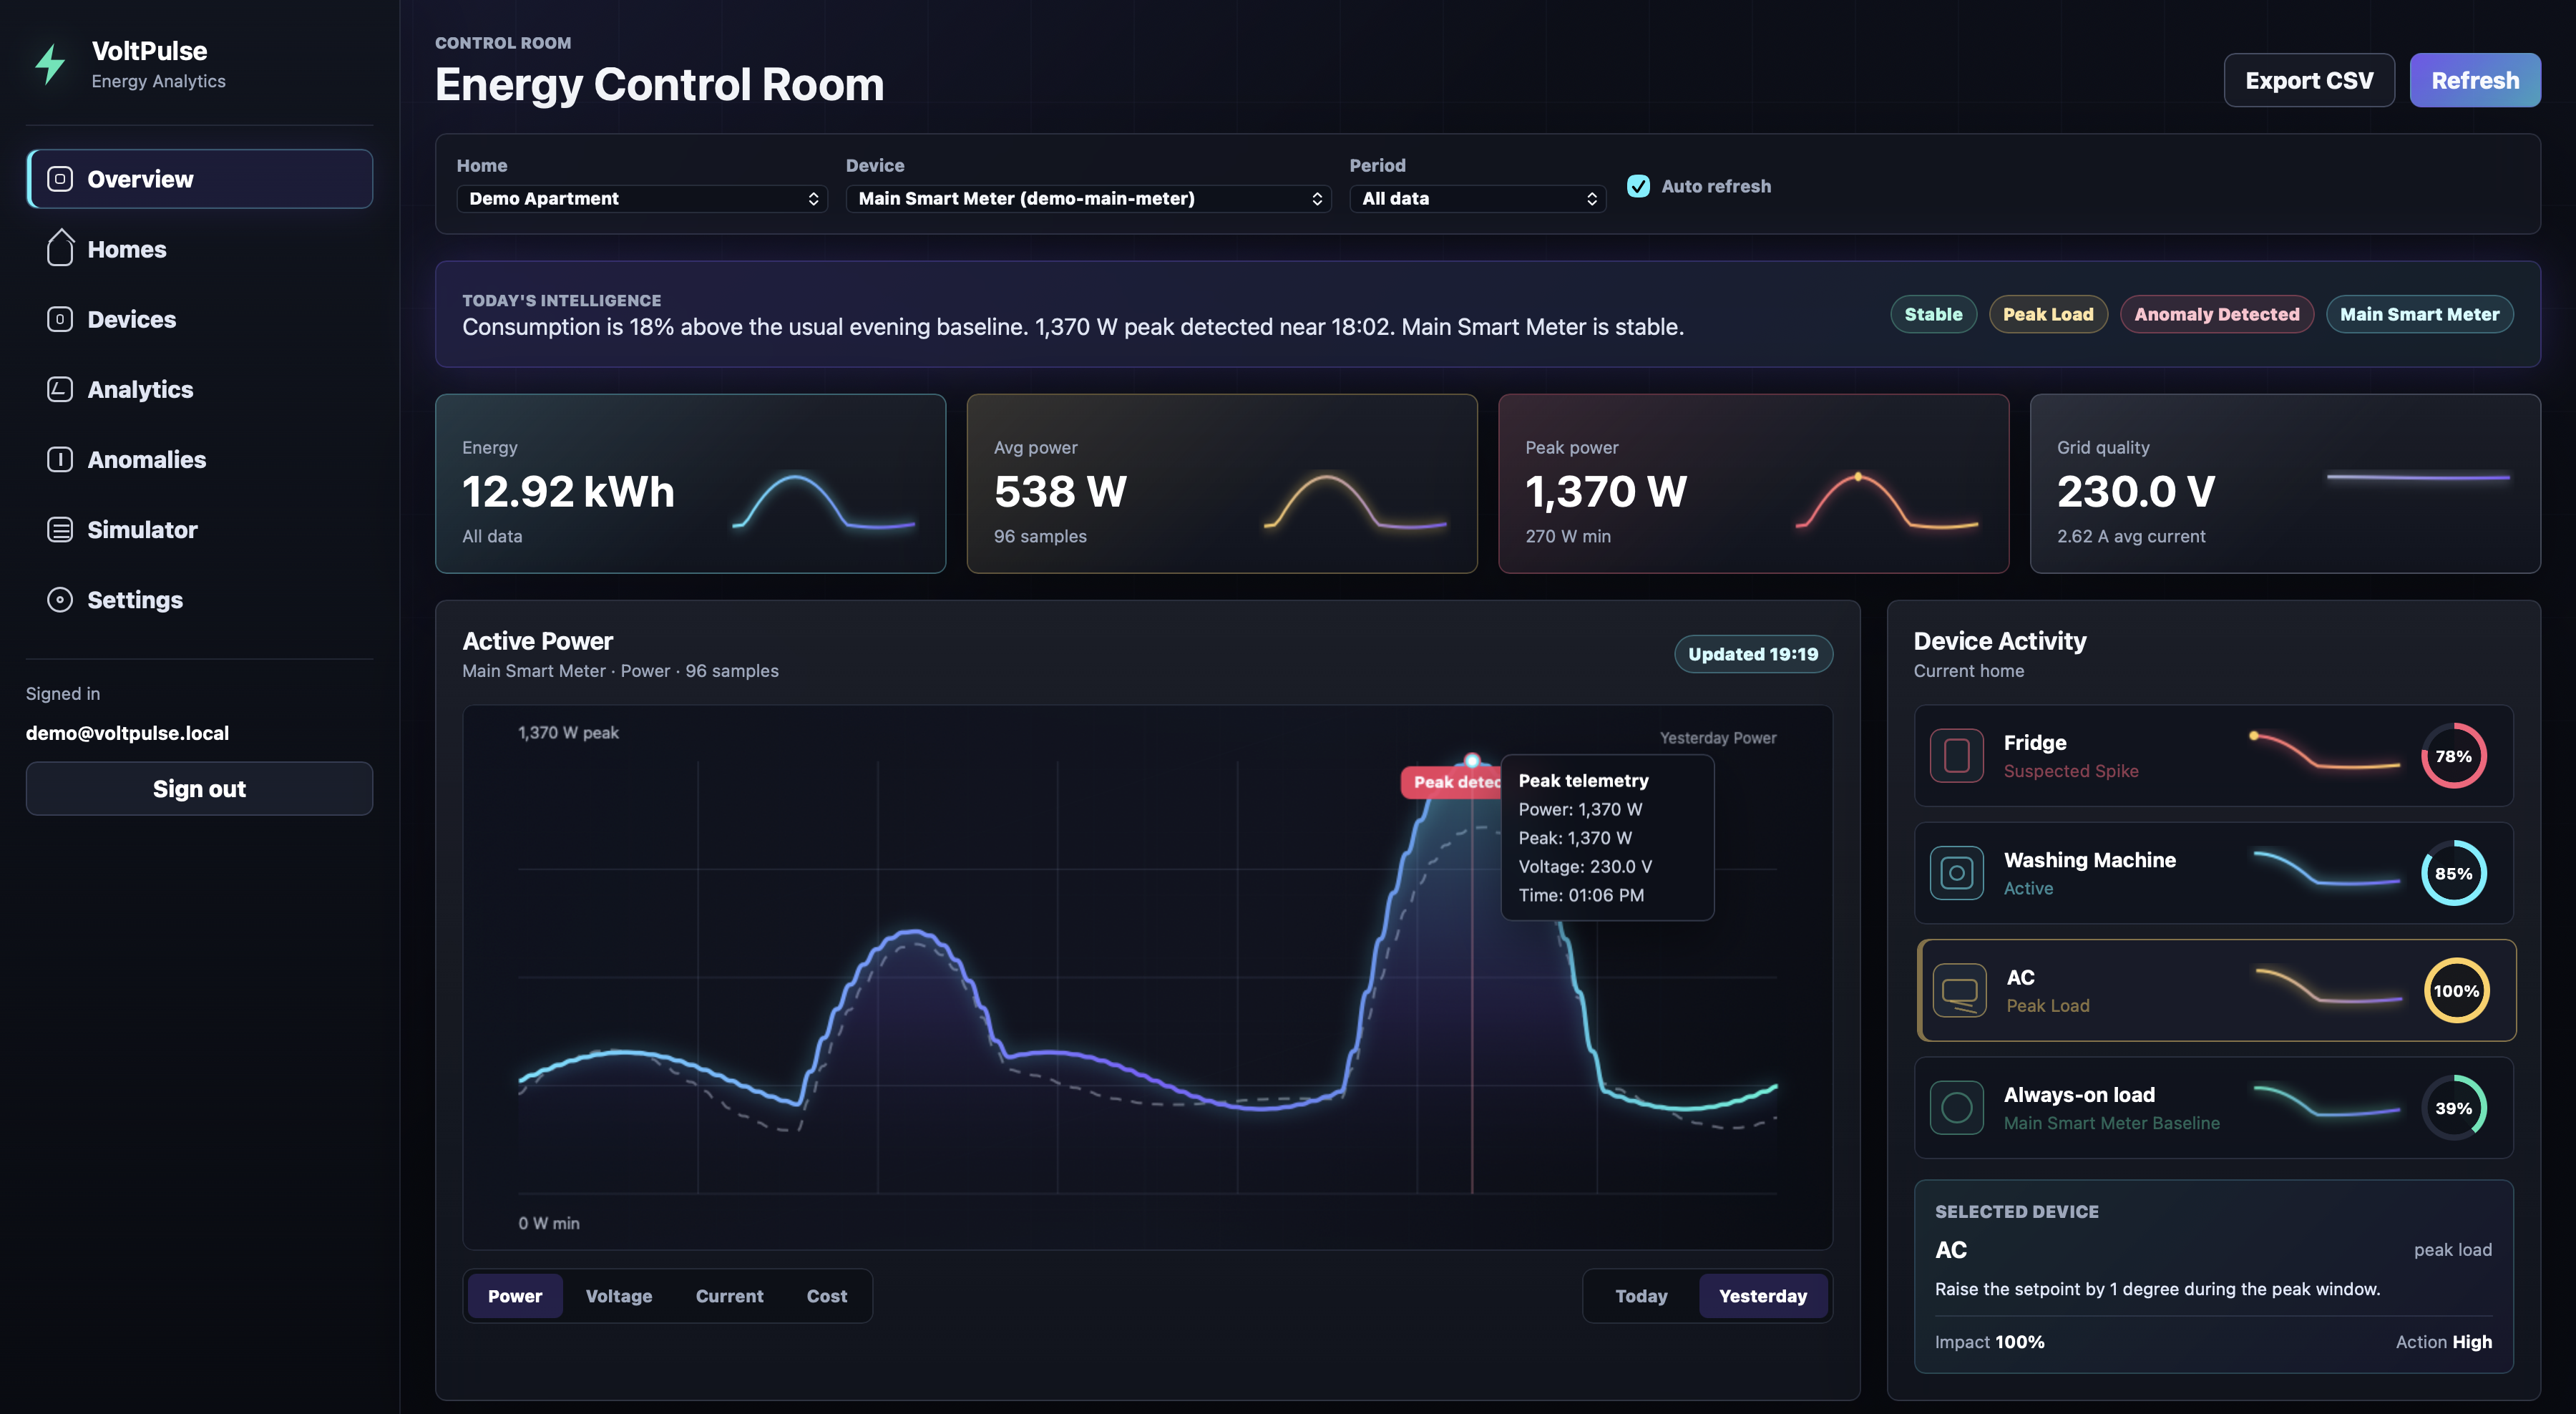
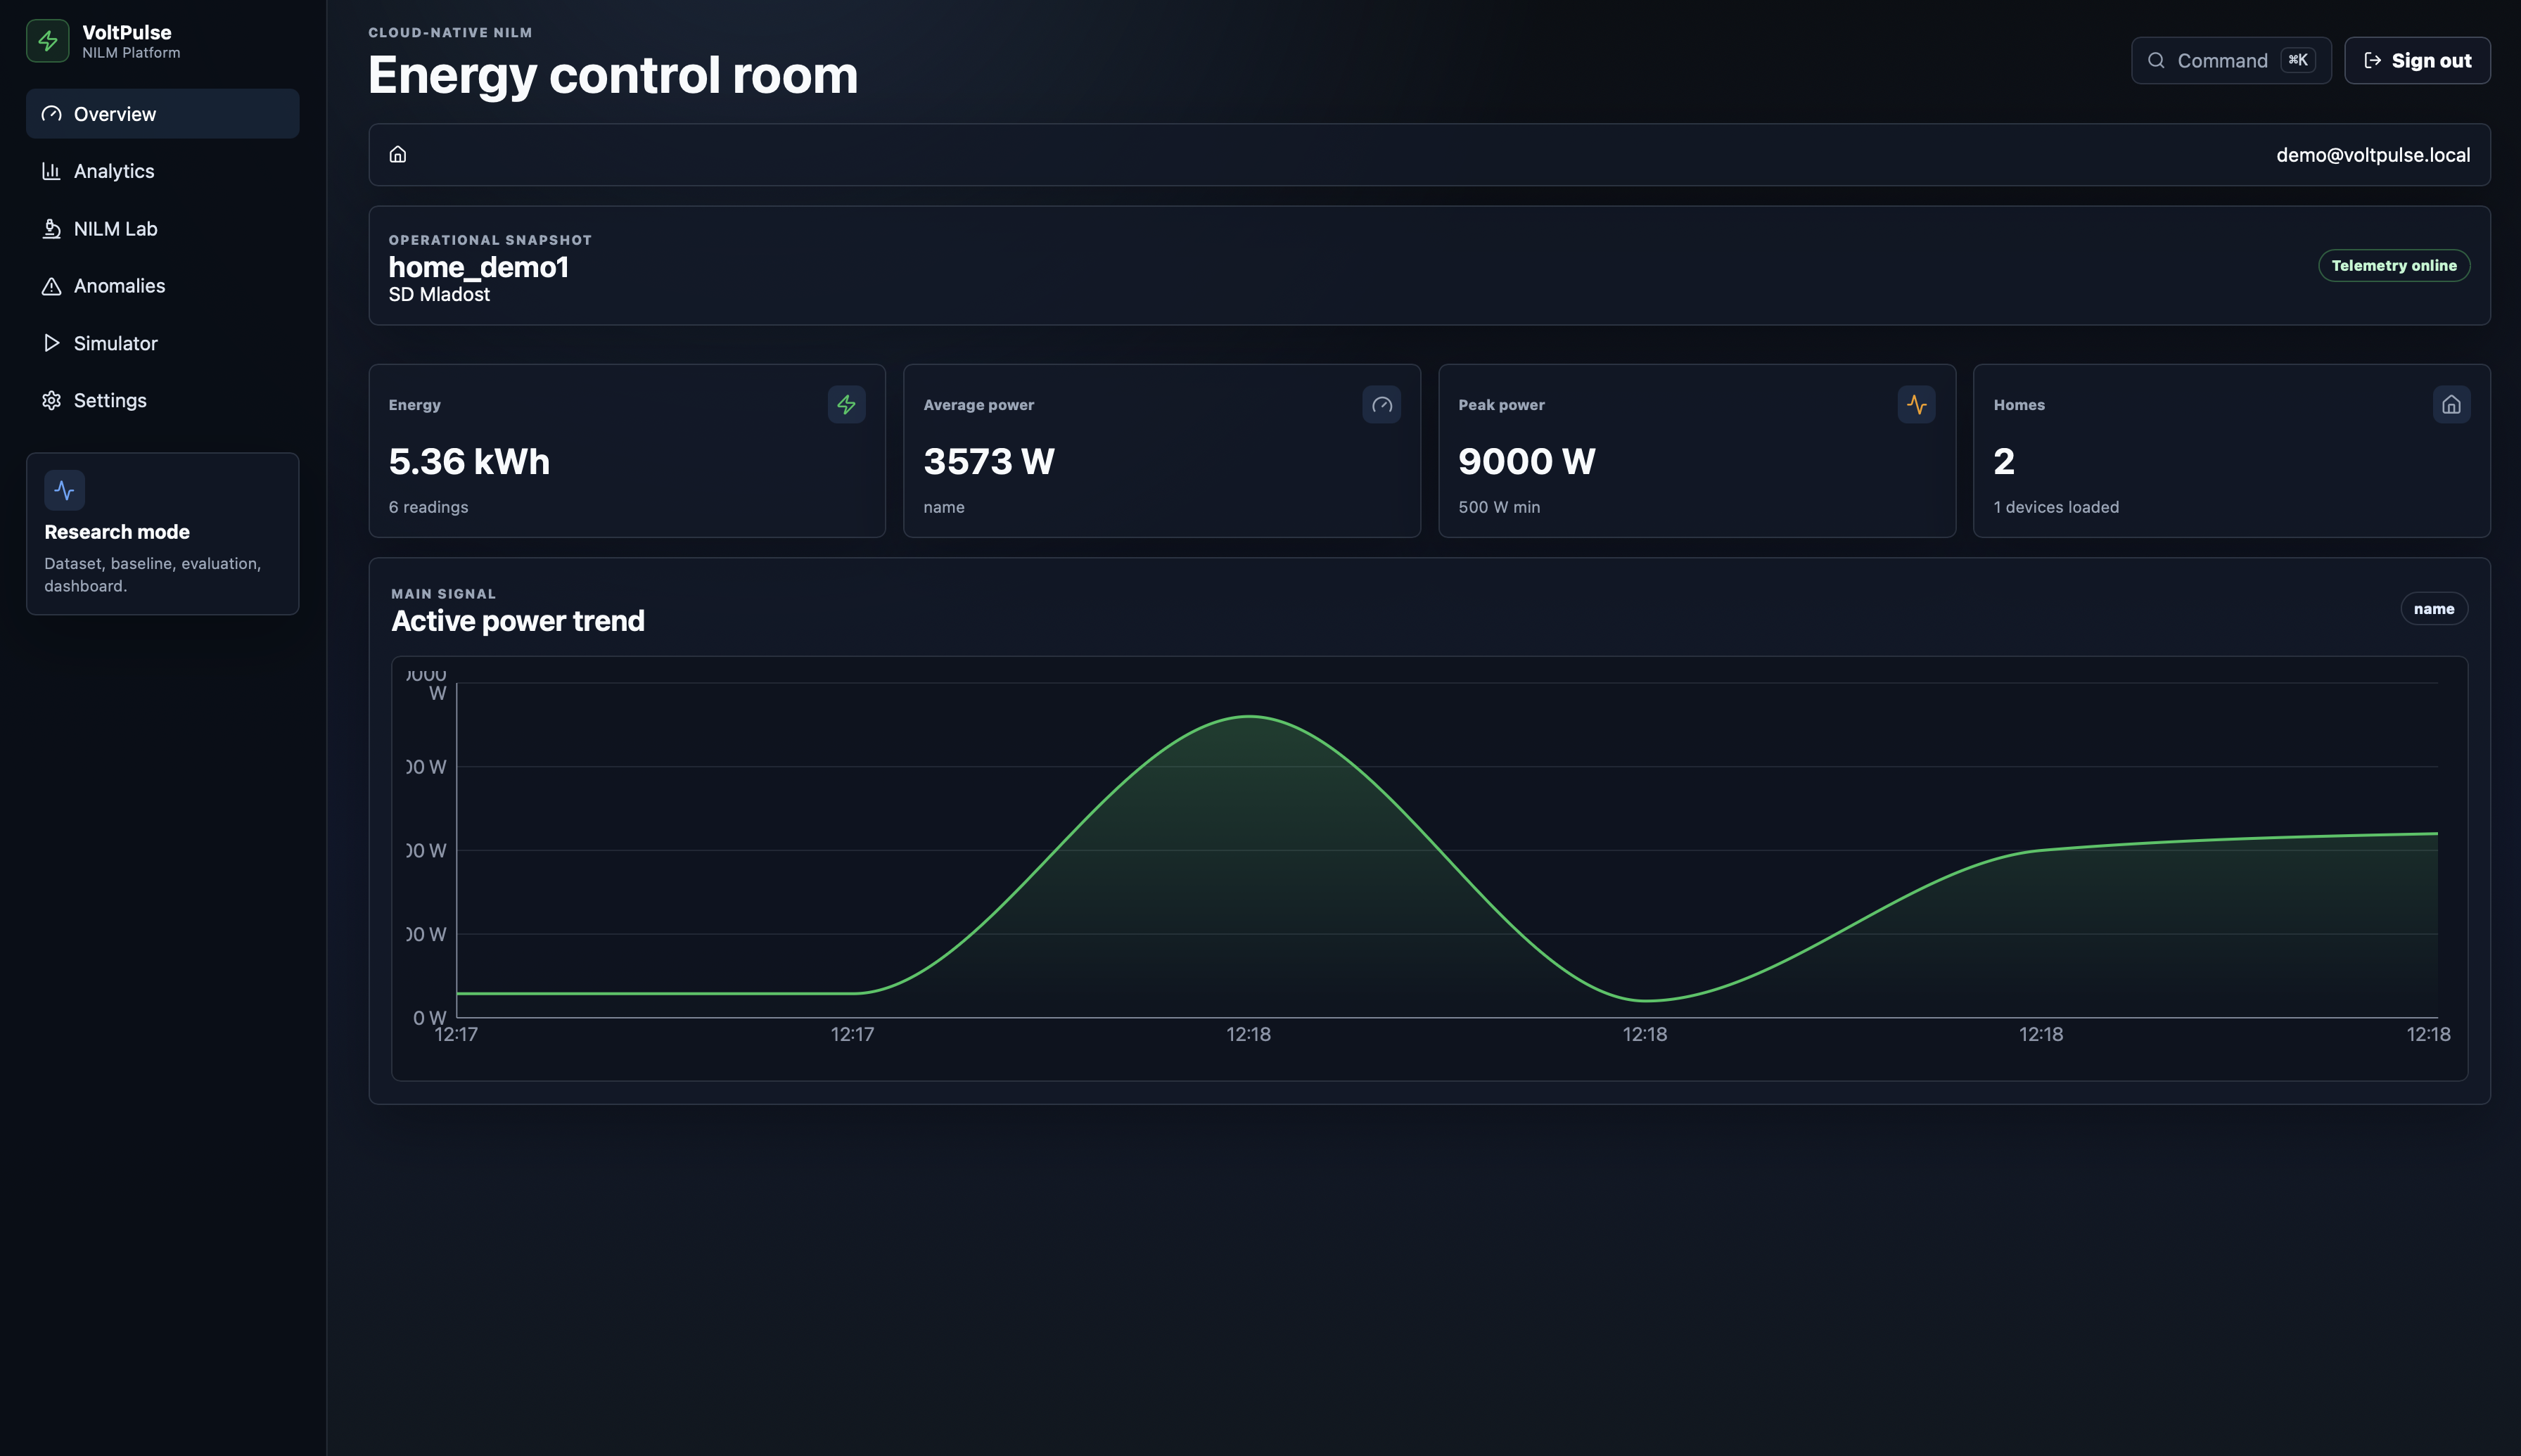
feat(nilm): add local dataset availability tracking

diff --git a/backend/app/ml/datasets/lab_demo.py b/backend/app/ml/datasets/lab_demo.py
@@ -107,7 +107,19 @@ LAB_APPLIANCE_NOMINAL_POWER_W = {
 
 PACKAGED_LAB_SAMPLE_PATH = Path(__file__).resolve().parent / "samples" / "uk_dale_house_1_sample.csv"
 PROJECT_LAB_SAMPLE_PATH = "data/samples/uk_dale_house_1_sample.csv"
-PROJECT_ROOT = Path(__file__).resolve().parents[4]
+PROJECT_ROOT_CANDIDATES = (
+    Path.cwd(),
+    Path(__file__).resolve().parents[3],
+    Path(__file__).resolve().parents[4],
+)
+
+
+def resolve_project_path(relative_path: str) -> Path:
+    for root in PROJECT_ROOT_CANDIDATES:
+        candidate = root / relative_path
+        if candidate.exists() or candidate.is_symlink():
+            return candidate
+    return PROJECT_ROOT_CANDIDATES[0] / relative_path
 
 
 def build_lab_demo_rows() -> tuple[UnifiedNILMRow, ...]:
@@ -123,4 +135,21 @@ def build_lab_demo_rows() -> tuple[UnifiedNILMRow, ...]:
 def project_path_exists(relative_path: str) -> bool:
     if not relative_path:
         return False
-    return (PROJECT_ROOT / relative_path).exists()
+    path = resolve_project_path(relative_path)
+    return path.exists() or path.is_symlink()
+
+
+def project_path_has_data(relative_path: str) -> bool:
+    if not relative_path:
+        return False
+
+    path = resolve_project_path(relative_path)
+    if path.is_file():
+        return True
+    if not path.is_dir():
+        return False
+
+    return any(
+        child.name != ".gitkeep" and (child.is_file() or child.is_symlink())
+        for child in path.iterdir()
+    )

diff --git a/backend/app/api/routes/nilm.py b/backend/app/api/routes/nilm.py
@@ -22,6 +22,7 @@ from app.ml.datasets.lab_demo import (
     SUPPORTED_LAB_DATASETS,
     SUPPORTED_LAB_HOUSES,
     build_lab_demo_rows,
+    project_path_has_data,
     project_path_exists,
 )
 from app.ml.evaluation.reports import build_evaluation_report
@@ -314,7 +315,7 @@ async def get_nilm_lab_datasets() -> NILMLabDatasetsRead:
                 processed_path=metadata["processed_path"],
                 sample_path=metadata["sample_path"] or None,
                 status=metadata["status"],
-                raw_available=project_path_exists(metadata["raw_path"]),
+                raw_available=project_path_has_data(metadata["raw_path"]),
                 processed_available=project_path_exists(metadata["processed_path"]),
                 sample_available=(
                     dataset == "uk-dale" or project_path_exists(metadata["sample_path"])

diff --git a/docs/NILM_DATASETS.md b/docs/NILM_DATASETS.md
@@ -23,6 +23,39 @@ sample is `data/samples/uk_dale_house_1_sample.csv`, mirrored inside the backend
 package so the Dockerized API can serve NILM Lab without mounting the repository
 root.
 
+## Local Download Layout
+
+Large public datasets should be copied or moved into the ignored `data/raw/`
+tree. Do not commit full `.csv`, `.h5`, `.npy`, or archive downloads.
+
+If the files were downloaded by Safari into `~/Downloads/`, use
+one of these approaches.
+
+Copy files, keeping the originals in Downloads:
+
+```bash
+mkdir -p data/raw/uk-dale data/raw/redd data/raw/refit data/raw/iawe
+cp ~/Downloads/downloads_safari/CLEAN_House*.csv data/raw/refit/
+cp ~/Downloads/downloads_safari/ukdale.h5 data/raw/uk-dale/
+cp ~/Downloads/downloads_safari/redd.h5 data/raw/redd/
+cp ~/Downloads/downloads_safari/iawe.h5 data/raw/iawe/
+```
+
+Move files, saving disk space but removing them from Downloads:
+
+```bash
+mkdir -p data/raw/uk-dale data/raw/redd data/raw/refit data/raw/iawe
+mv ~/Downloads/downloads_safari/CLEAN_House*.csv data/raw/refit/
+mv ~/Downloads/downloads_safari/ukdale.h5 data/raw/uk-dale/
+mv ~/Downloads/downloads_safari/redd.h5 data/raw/redd/
+mv ~/Downloads/downloads_safari/iawe.h5 data/raw/iawe/
+```
+
+The dashboard Dataset Library marks a dataset as `ready` only when the expected
+local raw, processed, or sample paths exist. A downloaded file still appears as
+`missing` until it is placed under the project `data/` tree or converted into
+`data/processed/`.
+
 ## Dataset Priority
 
 ### 1. UK-DALE